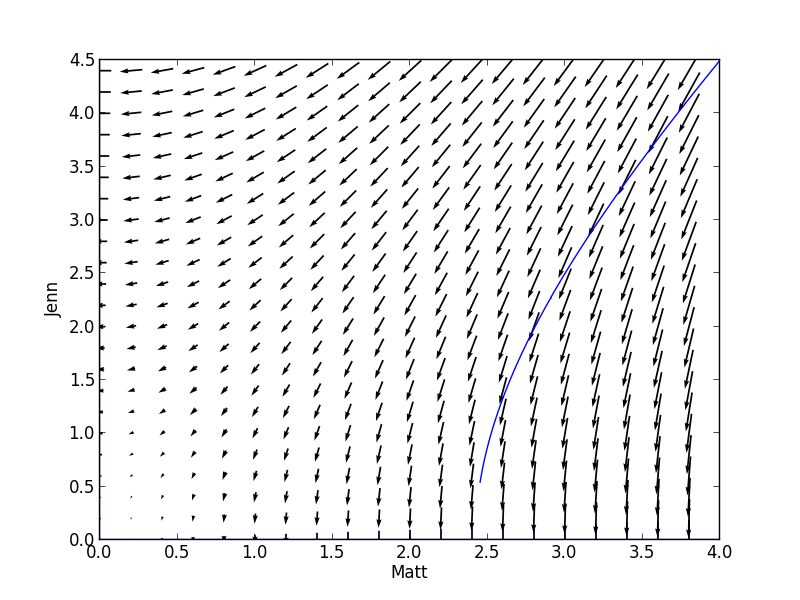
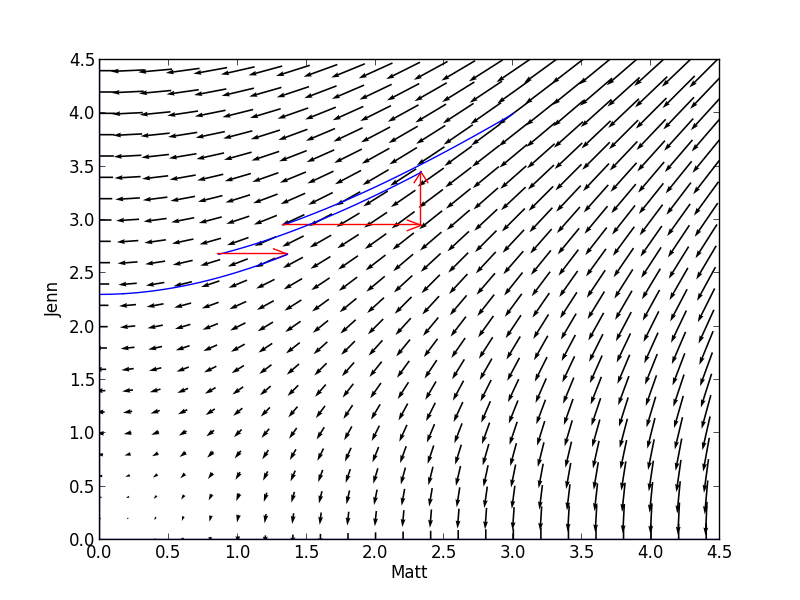
Plotting of battle simulation works well.

diff --git a/FinalProj/lanchestertk.py b/FinalProj/lanchestertk.py
@@ -204,30 +204,28 @@ class LanchesterSquares:
 
                 # find ending point of vector (as starting point for arrows)
                 x_temp, y_temp = sp.getEndVector(0, self.dx, self.dy, 0,
-                                      self.troopDeployments[1][p], self.troopDeployments[2][p],
+                                      x_temp+self.troopDeployments[1][p], y_temp+self.troopDeployments[2][p],
                                       100, 0.1)
                 # arrows
                 if p < 4:
-                    if (self.troopDeployments[1][p+1] > 0) & (self.troopDeployments[2][p+1] <= 0): # or p
+                    if (self.troopDeployments[1][p+1] > .2) & (self.troopDeployments[2][p+1] <= .2): # or p
                         sp.drawArrow(x_temp, x_temp+self.troopDeployments[1][p+1], y_temp, y_temp, headlength=0.05, direction='R', lineColor='r')
                         
-                    if (self.troopDeployments[2][p+1] > 0) & (self.troopDeployments[1][p+1] <= 0):
+                    if (self.troopDeployments[2][p+1] > .2) & (self.troopDeployments[1][p+1] <= .2):
                         sp.drawArrow(x_temp, x_temp, y_temp, y_temp+self.troopDeployments[2][p+1], headlength=0.05, direction='U', lineColor='r')
                         
-                    if (self.troopDeployments[1][p+1] > 0) & (self.troopDeployments[2][p+1] > 0):
+                    if (self.troopDeployments[1][p+1] > .2) & (self.troopDeployments[2][p+1] > .2):
                         sp.drawArrow(x_temp, x_temp+self.troopDeployments[1][p+1], y_temp, y_temp, headlength=0.05, direction='R', lineColor='r')
                         sp.drawArrow(x_temp+self.troopDeployments[1][p+1], x_temp+self.troopDeployments[1][p+1],
                                      y_temp, y_temp+self.troopDeployments[2][p+1], headlength=0.05, direction='U', lineColor='r')
-
-            sp.drawFinalVector(0, self.dx, self.dy, 0, x_temp, y_temp)
+            sp.drawFinalVector(0, self.dx, self.dy, 0, x_temp, y_temp, stepsize=.1, colorVar ='g')
                 # TODO: add filename parameter
-                # TODO: rescale arrows
-                # TODO: rescale investment input
  
             #save file and convert to gif
             sp.pngSave(outputName)
             ptg.pngToGif(outputName)
-            
+
+            # display photo to users
             simPhoto = PhotoImage(file=outputName+'.gif')
             self.photoLabel = Label(self.myContainer1, image=simPhoto)
             self.photoLabel.image = simPhoto
@@ -249,5 +247,6 @@ root.mainloop()                     # start the game
 #TODO: call slopefieldPlot with player inputs, current time as filename
 #TODO: add a different default plot, possibly including instructions
 #TODO: write player input to CSV
+#TODO: disable players changing their input (ie clicking enter) after p2's turn is over
 #TODO: popup announcing who won, at what time, and with how many troops
 #TODO: make it easy to begin another round

diff --git a/FinalProj/slopefieldExamples.py b/FinalProj/slopefieldExamples.py
@@ -29,8 +29,8 @@ sp.slopefieldPlotter(0, 6, .2, 0, 4, .2, -0.05, -0.01, xLab='US', yLab='Japan', 
 sp.drawVector(0, -0.05, -0.01, 0, 4, 3, 100, stepsize=0.1, colorVar='b')
 xtmp, ytmp = sp.getEndVector(0, -0.05, -0.01, 0, 4, 3, 100, stepsize=0.1)
 sp.drawArrow(xtmp, xtmp+1, ytmp, ytmp, headlength=0.05, direction='R', lineColor='r')
-sp.drawArrow(xtmp+1, xtmp+1, ytmp, ytmp+1, headlength=0.05, direction='R', lineColor='r')
-sp.drawFinalVector(0, -0.05, -0.01, 0, xtmp, ytmp, stepsize=.1, colorVar='g')
+sp.drawArrow(xtmp+1, xtmp+1, ytmp, ytmp+1, headlength=0.05, direction='U', lineColor='r')
+sp.drawFinalVector(0, -0.05, -0.01, 0, xtmp+1, ytmp+1, stepsize=.1, colorVar='g')
 sp.pngSave('vecTester')
 
 # convert png output to gif (for use in Tkinter)
